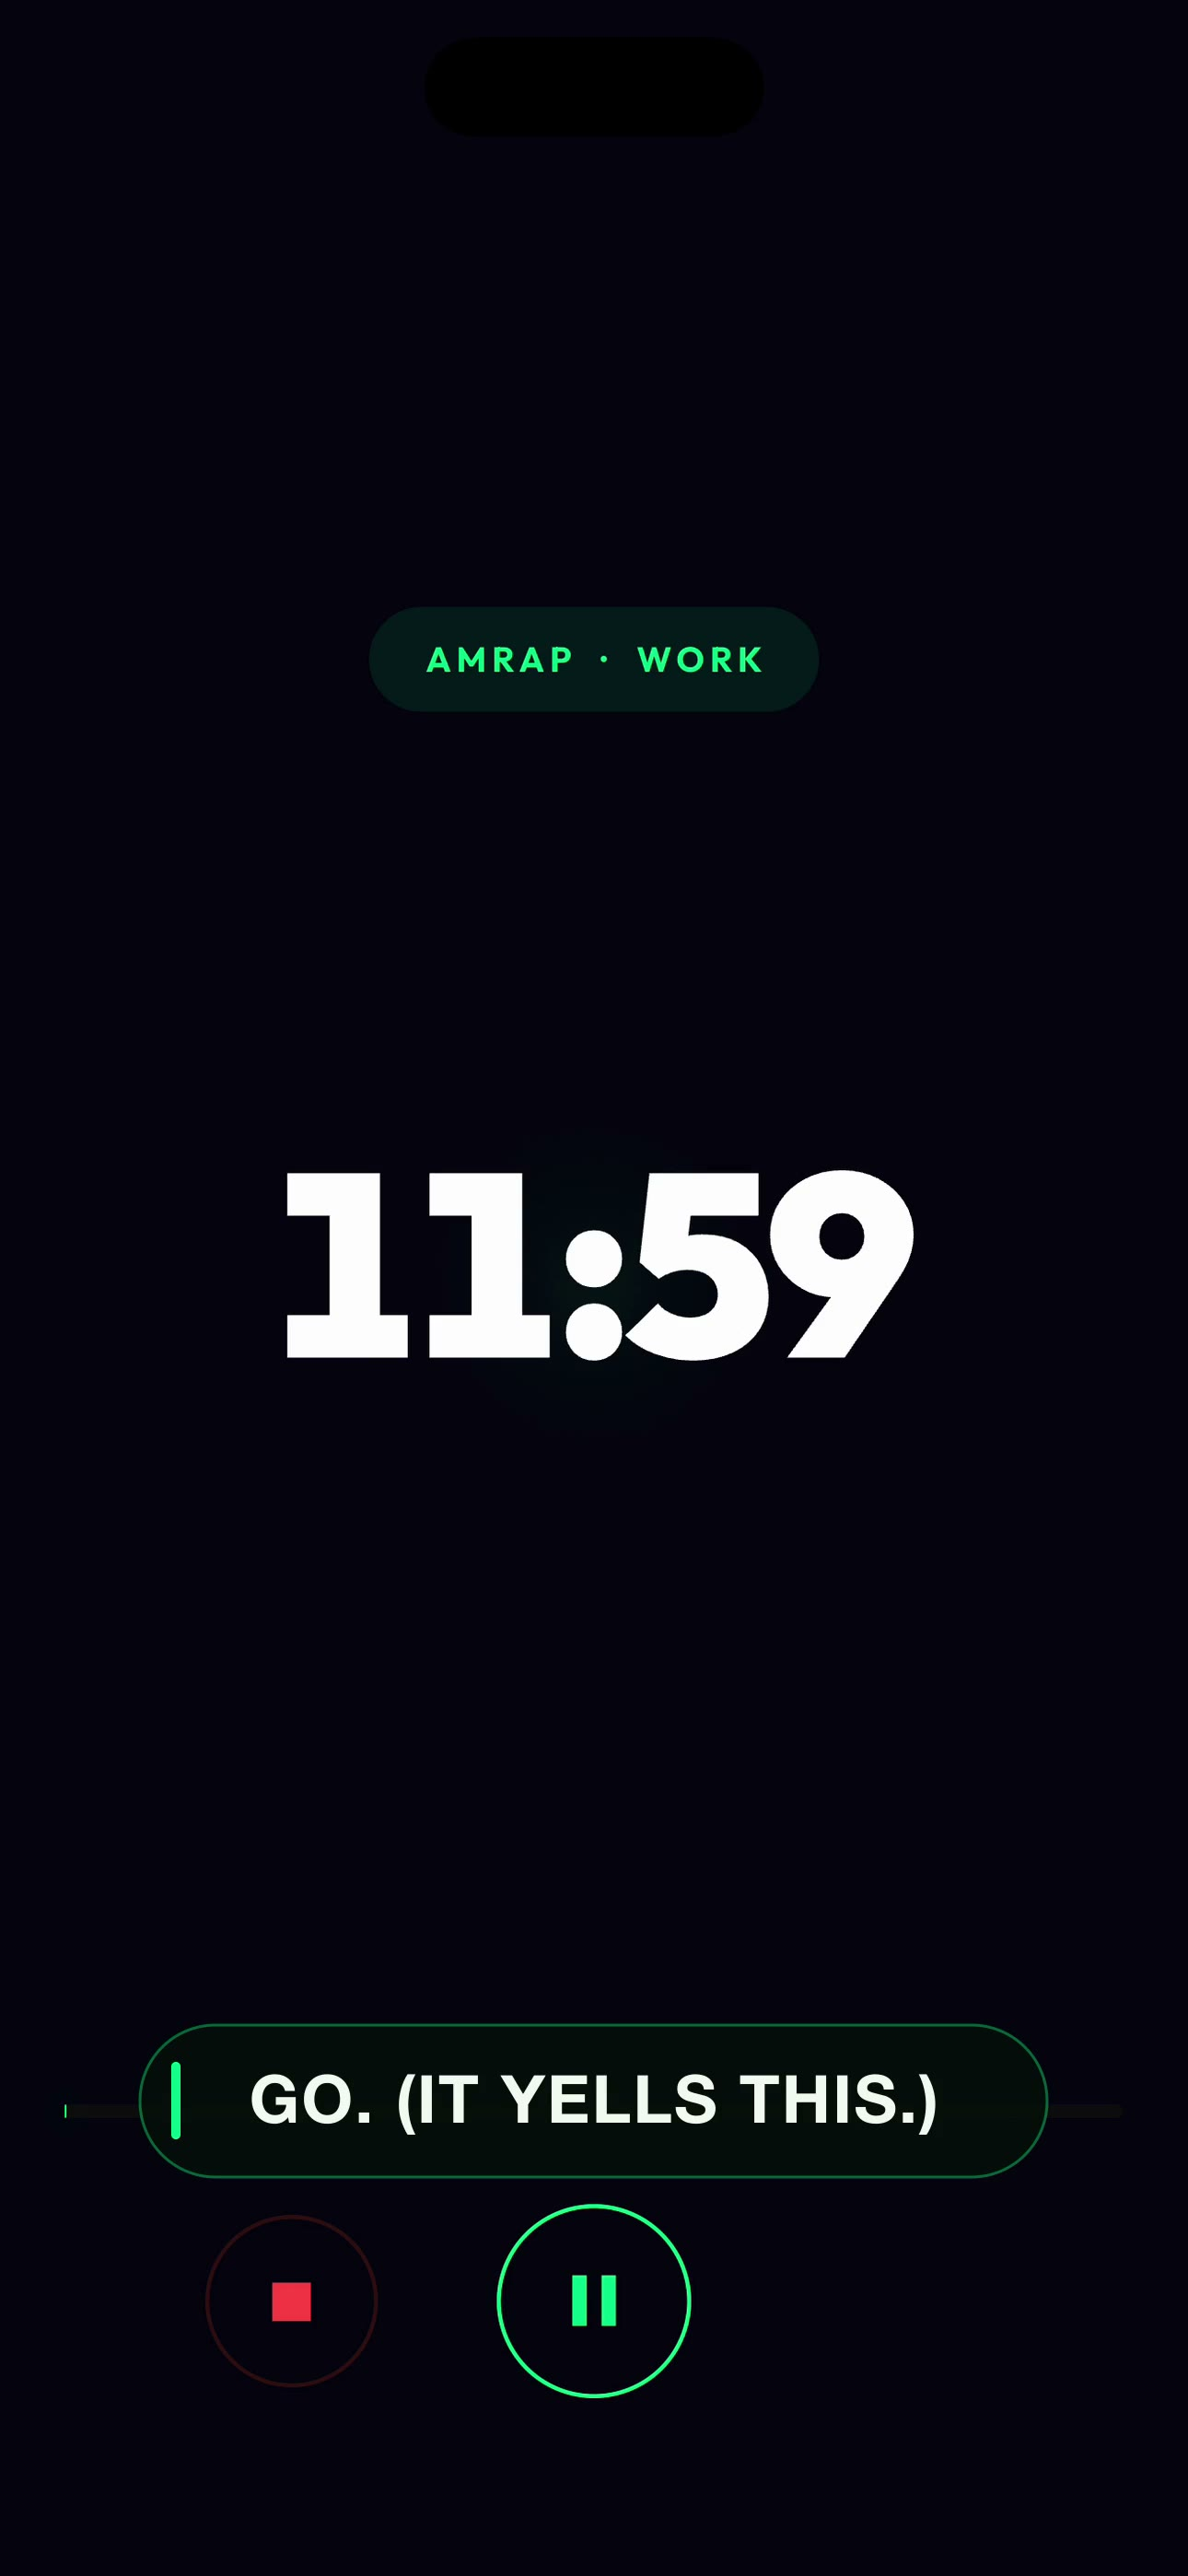
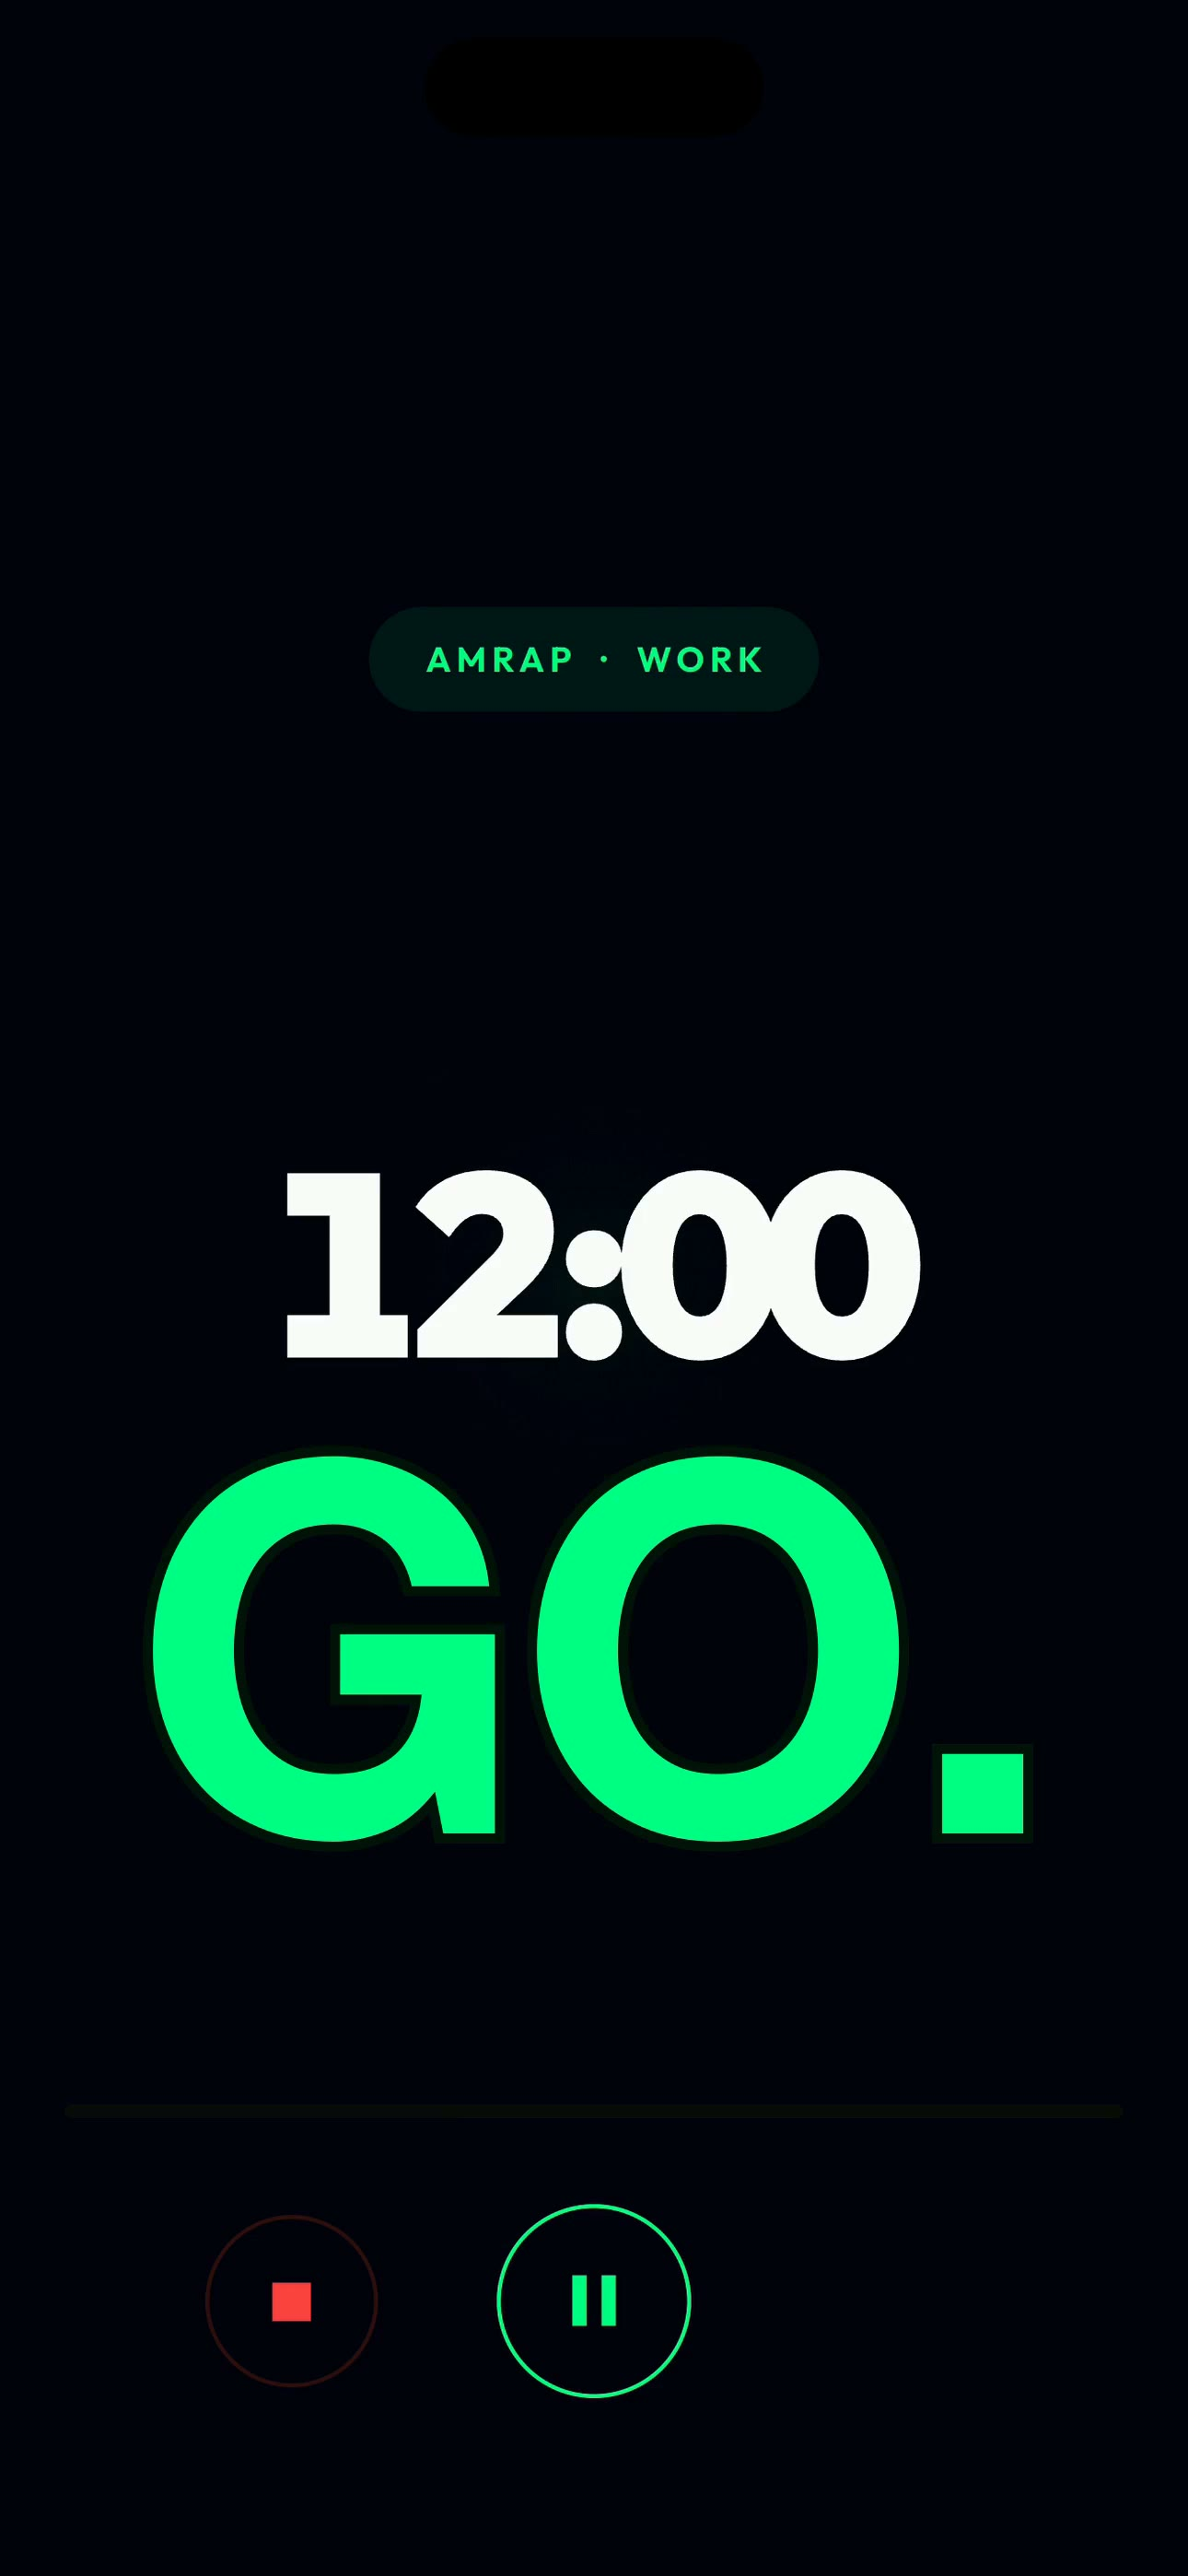
promo v2: sound-first cut — the coach counts you in, rock drops on GO
Rebuilt around what the app actually is (a timer that talks):
- Cold open on the real GET READY screen; Major's 3-2-1 cues land on the
  exact on-screen digit flips, GO yells the frame the timer flips to
  WORK, and the epic-rock bed (AlexGrohl, Pixabay) hard-cuts from intro
  riff to its ~16s drop on that same frame. Green flash + mega GO. slam.
- Wharfie (the site mascot, ported into mktext.py) peeks over every
  caption pill with per-scene expressions — joyful mid-yell, never
  strained. Title + end cards rebuilt around him.
- Hard cuts replace crossfades so every cue stays frame-accurate;
  tabata scene now shows the WORK 3-2-1 -> REST flip (raw ~122.0);
  REST / GOOD JOB / THAT'S IT cues drop in with the music ducked 5dB
  under each so the voice punches through.
- Poster is now the GO. slam frame.

diff --git a/promo_video/mktext.py b/promo_video/mktext.py
@@ -2,6 +2,10 @@
 # Wharf WOD promo: transparent text/graphic overlay PNGs via SVG + rsvg-convert.
 # Clone of the Squish/HFD pipeline shape, re-skinned to the app's "Signal"
 # design system: deep-ink dark, signal green, heavy condensed caps.
+# 2026-07-13 rework: Wharfie (the site mascot) peeks over every caption pill
+# with a per-scene expression, the GO moment gets a full-frame slam card, and
+# the title/end cards lean on him too — same treatment that made the Squish
+# promo land.
 import html
 import os
 import subprocess
@@ -42,6 +46,59 @@ def big(text, y, fs, fill=INK, weight=900, spacing=2, anchor="middle", x=W // 2)
     )
 
 
+# ---------------- Wharfie (ported from the mentalmetal.app stage) ----------------
+def wharfie(x, y, size, expr="smile", rotate=0, barbell=True, gid=""):
+    """The stopwatch mascot, drawn into a `size`-wide box at (x, y).
+    expr: smile | yell | starry. Unique gradient ids per instance via gid."""
+    s = size / 200.0
+    mouth = {
+        "smile": '<path d="M86 126 Q101 138 116 124" fill="none" stroke="#14231b" '
+                 'stroke-width="7" stroke-linecap="round"/>',
+        # joyful war cry: mouth wide open mid-"GO!", eyes bright — never strained
+        "yell": '<ellipse cx="101" cy="128" rx="14" ry="16" fill="#14231b"/>'
+                '<path d="M92 136 Q101 143 110 136 L110 140 Q101 147 92 140 Z" fill="#e0523f"/>'
+                '<path d="M140 70 L150 60 M146 82 L158 76" stroke="#00FF88" stroke-width="6" stroke-linecap="round"/>',
+        # finished-the-WOD glow
+        "starry": '<path d="M86 124 Q101 140 116 122" fill="none" stroke="#14231b" '
+                  'stroke-width="7" stroke-linecap="round"/>'
+                  '<path d="M60 74 L64 84 L74 88 L64 92 L60 102 L56 92 L46 88 L56 84 Z" fill="#00FF88"/>',
+    }[expr]
+    if expr == "yell":
+        eyes = ('<circle cx="86" cy="107" r="9" fill="#14231b"/><circle cx="89" cy="104" r="3" fill="#fff"/>'
+                '<circle cx="116" cy="107" r="9" fill="#14231b"/><circle cx="119" cy="104" r="3" fill="#fff"/>')
+    elif expr == "starry":
+        eyes = ('<path d="M86 100 L90 108 L98 112 L90 116 L86 124 L82 116 L74 112 L82 108 Z" fill="#14231b"/>'
+                '<path d="M116 100 L120 108 L128 112 L120 116 L116 124 L112 116 L104 112 L112 108 Z" fill="#14231b"/>')
+    else:
+        eyes = ('<circle cx="86" cy="108" r="9" fill="#14231b"/><circle cx="89" cy="105" r="3" fill="#fff"/>'
+                '<circle cx="116" cy="108" r="9" fill="#14231b"/><circle cx="119" cy="105" r="3" fill="#fff"/>')
+    bar = ""
+    if barbell:
+        bar = (
+            '<g><rect x="12" y="150" width="176" height="10" rx="5" fill="#cfd8d2" stroke="#0c1410" stroke-width="4"/>'
+            f'<rect x="16" y="131" width="26" height="48" rx="8" fill="url(#wwRing{gid})" stroke="#0c1410" stroke-width="5"/>'
+            f'<rect x="158" y="131" width="26" height="48" rx="8" fill="url(#wwRing{gid})" stroke="#0c1410" stroke-width="5"/></g>'
+        )
+    return (
+        f'<g transform="translate({x},{y}) scale({s}) rotate({rotate} 100 110)">'
+        f'<defs>'
+        f'<linearGradient id="wwRing{gid}" x1="0" y1="0" x2="1" y2="1">'
+        f'<stop offset="0" stop-color="#3dffa4"/><stop offset="1" stop-color="#00c86a"/></linearGradient>'
+        f'<linearGradient id="wwBody{gid}" x1="0" y1="0" x2="0" y2="1">'
+        f'<stop offset="0" stop-color="#263b31"/><stop offset="1" stop-color="#121d17"/></linearGradient>'
+        f'</defs>'
+        + bar +
+        f'<rect x="88" y="28" width="24" height="16" rx="5" fill="#263b31" stroke="#0c1410" stroke-width="5"/>'
+        f'<rect x="93" y="16" width="14" height="13" rx="4" fill="url(#wwRing{gid})" stroke="#0c1410" stroke-width="4"/>'
+        f'<circle cx="100" cy="114" r="70" fill="url(#wwBody{gid})" stroke="#0c1410" stroke-width="7"/>'
+        f'<circle cx="100" cy="114" r="56" fill="none" stroke="url(#wwRing{gid})" stroke-width="10" '
+        f'stroke-linecap="round" stroke-dasharray="264 88" transform="rotate(-90 100 114)"/>'
+        f'<circle cx="100" cy="114" r="42" fill="#f2f7ee"/>'
+        + eyes + mouth +
+        '</g>'
+    )
+
+
 # ---------------- icon squircle mask ----------------
 render(
     "iconmask",
@@ -50,48 +107,61 @@ render(
     h=520,
 )
 
-# ---------------- caption pills ----------------
-def caption(name, text, cy=2280, fs=64):
+# ---------------- caption pills (Wharfie peeking over the corner) ----------------
+def caption(name, text, expr="smile", cy=2280, fs=64):
     est = int(len(text) * fs * 0.58) + 150
     pw = min(max(est, 480), W - 70)
     ph = int(fs * 2.3)
     px = (W - pw) // 2
     py = cy - ph // 2
     baseline = cy + int(fs * 0.34)
+    m_size = 190
     body = (
         # green signal tick on the pill's left edge, like the app's strips
         f'<rect x="{px}" y="{py}" width="{pw}" height="{ph}" rx="{ph // 2}" '
-        f'fill="#05100a" fill-opacity="0.78" stroke="{GREEN}" stroke-opacity="0.35" stroke-width="3"/>'
+        f'fill="#05100a" fill-opacity="0.82" stroke="{GREEN}" stroke-opacity="0.35" stroke-width="3"/>'
         f'<rect x="{px + 34}" y="{cy - fs // 2 - 6}" width="10" height="{fs + 12}" rx="5" fill="{GREEN}"/>'
         + big(text, baseline, fs)
+        # Wharfie peeks over the pill's top-left corner, Squish-style
+        + wharfie(px - 30, py - m_size + 52, m_size, expr=expr, rotate=-12,
+                  barbell=False, gid=name)
     )
     render(name, body)
 
 
-caption("c_home", "FOUR TIMERS. ZERO FAFF.")
-caption("c_setup", "PICK YOUR POISON")
-caption("c_count", "THREE. TWO. ONE…", fs=72)
-caption("c_go", "GO. (IT YELLS THIS.)", fs=72)
-caption("c_tabata", "WORK. REST. REPEAT.")
-caption("c_done", "NEVER LOSES COUNT.")
+caption("c_go", "IT YELLS IT LIKE IT MEANS IT.", expr="yell", fs=62)
+caption("c_timers", "AMRAP · FOR TIME · EMOM · TABATA", expr="smile", fs=58)
+caption("c_setup", "PICK YOUR POISON. START.", expr="smile")
+caption("c_tabata", "WORK. REST. IT KEEPS COUNT.", expr="yell", fs=60)
+caption("c_done", "GOOD JOB. (IT SAYS THAT TOO.)", expr="starry", fs=58)
+
+# ---------------- GO slam ----------------
+# Full-frame overlay for the WORK flip: mega GO. dropped over the live footage
+# the exact frame the coach yells it.
+render(
+    "go_slam",
+    f'<text x="{W // 2}" y="1990" text-anchor="middle" font-family="{SANS}" '
+    f'font-size="560" font-weight="900" letter-spacing="-8" fill="{GREEN}" '
+    f'stroke="#04140b" stroke-width="22" paint-order="stroke">GO.</text>',
+)
 
 # ---------------- title card ----------------
 render(
     "title_overlay",
-    big("WOD", 1750, 340, weight=900, spacing=8)
-    + f'<circle cx="{W // 2 + 385}" cy="1750" r="34" fill="{GREEN}"/>'
-    + big("THE WHARF WOD TIMER", 1900, 74, fill=DIM, spacing=10)
-    + big("THREE. TWO. ONE.", 2130, 96, fill=INK)
-    + big("GO.", 2320, 150, fill=GREEN),
+    wharfie(W // 2 - 170, 620, 340, expr="smile", barbell=True, gid="title")
+    + big("THE WHARF", 1720, 170, weight=900, spacing=2)
+    + big("WOD TIMER", 1930, 170, weight=900, spacing=2)
+    + f'<rect x="{W // 2 - 260}" y="2120" width="520" height="108" rx="54" '
+    f'fill="none" stroke="{GREEN}" stroke-width="5"/>'
+    + big("SOUND ON.", 2190, 56, fill=GREEN, spacing=8),
 )
 
 # ---------------- end card ----------------
 render(
     "end_overlay",
-    big("FREE.", 1560, 120)
-    + big("NO ADS. NO EXCUSES.", 1700, 84, fill=DIM)
-    + big("THE WHARF WOD TIMER", 2040, 90, fill=INK)
-    + big("App Store — soon", 2150, 62, fill=GREEN)
-    + big("mentalmetal.app", 2420, 54, fill=DIM),
+    wharfie(W // 2 - 210, 1060, 420, expr="starry", barbell=True, gid="end")
+    + big("THE WHARF WOD TIMER", 1780, 96, fill=INK)
+    + big("FREE. NO ADS. NO EXCUSES.", 1930, 72, fill=DIM)
+    + big("mentalmetal.app", 2220, 64, fill=GREEN, spacing=4),
 )
 print("all overlays rendered")